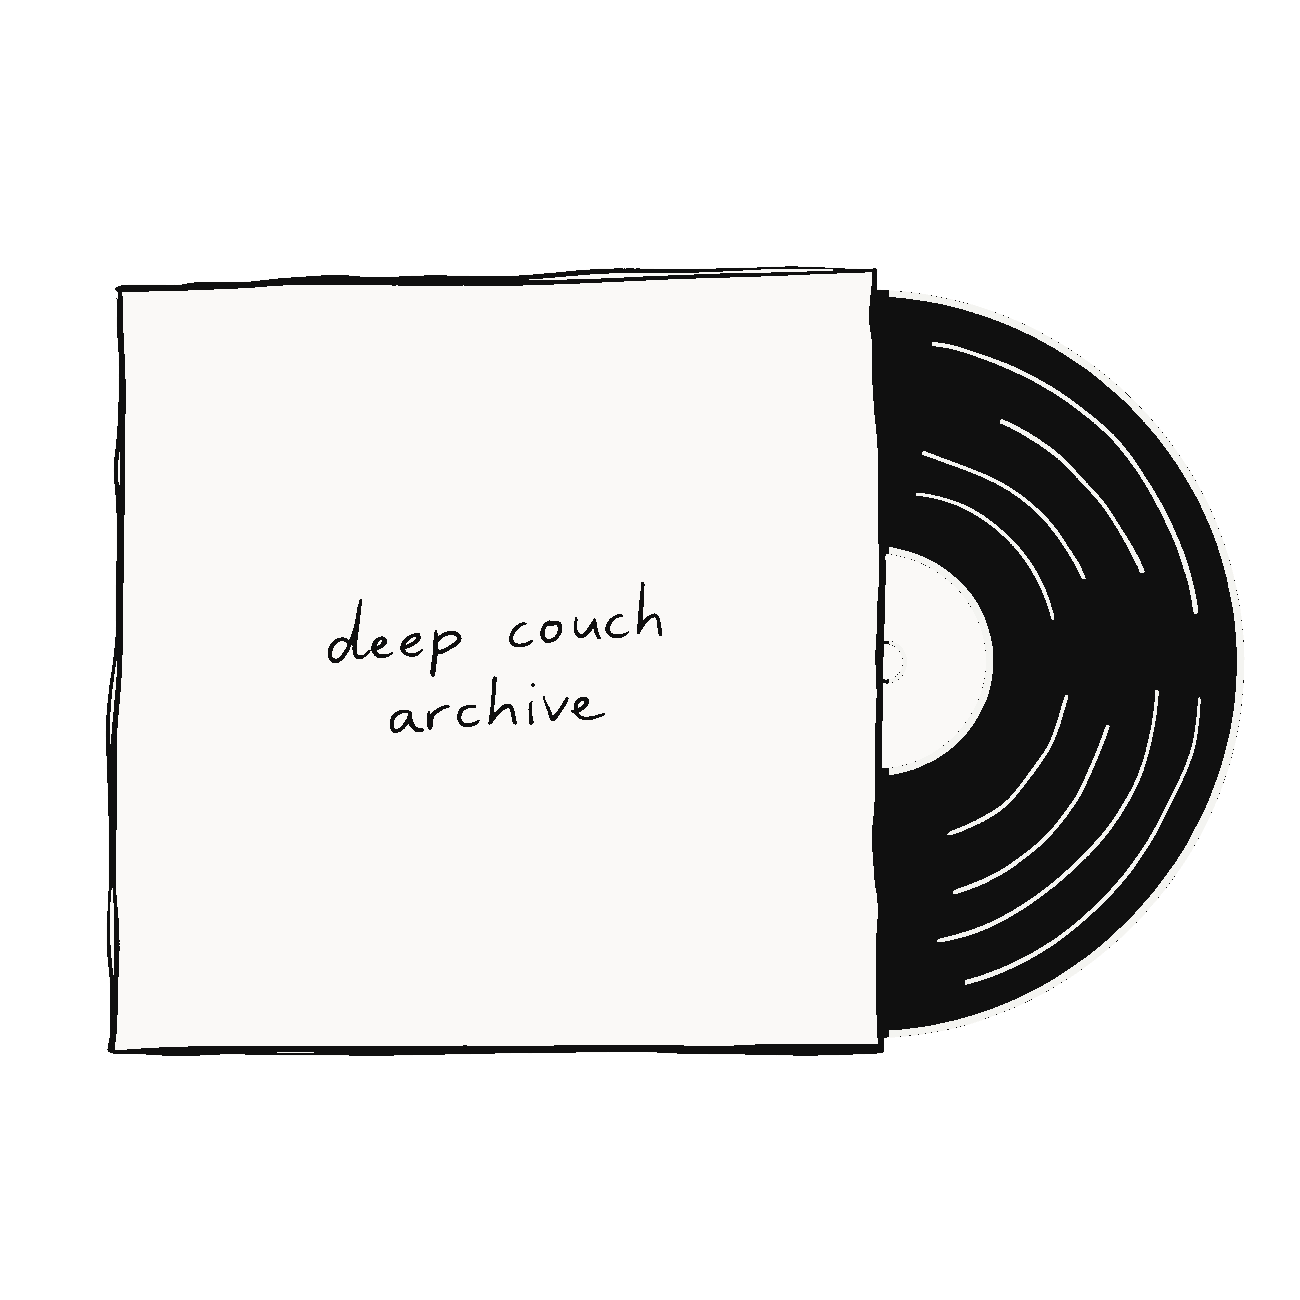
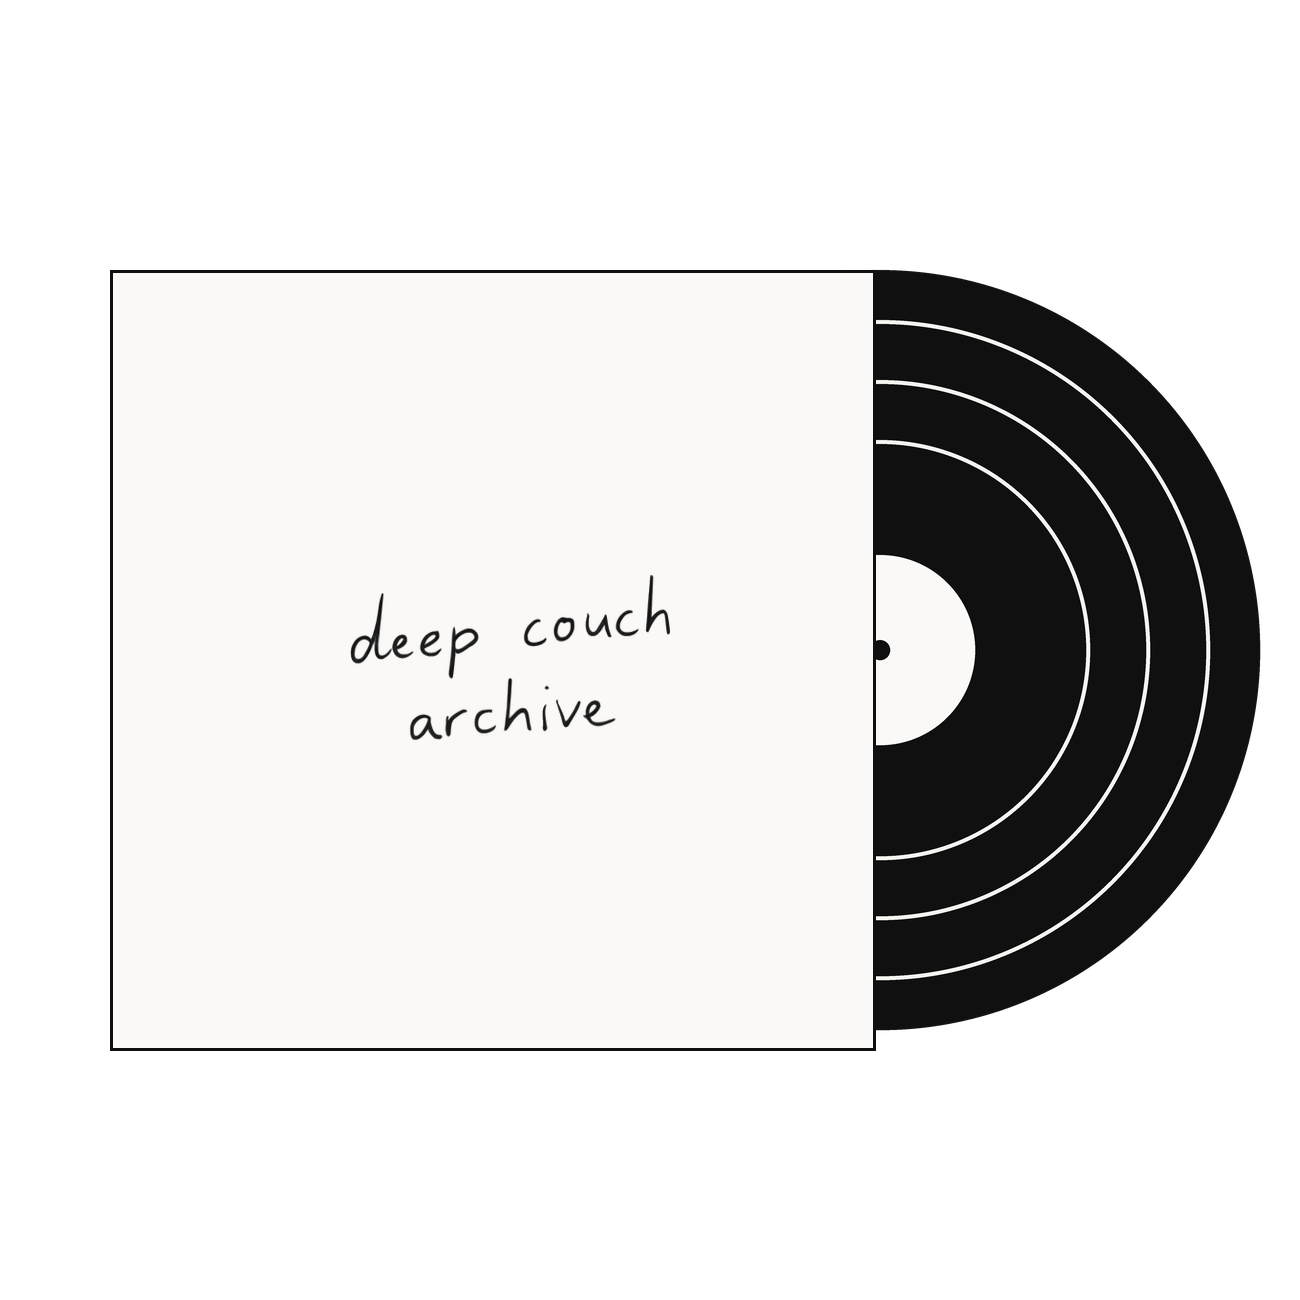
fix(home): rebuild LP illustration

diff --git a/api/home-navigation.test.js b/api/home-navigation.test.js
@@ -49,7 +49,7 @@ test("dark Home LP gives the cover outline a quieter secondary contrast", () => 
   const script = `
 from PIL import Image
 image = Image.open("assets/illustrations/vinyl-dca-home-dark.png").convert("RGBA")
-assert image.getpixel((500, 280)) == (182, 182, 174, 255), image.getpixel((500, 280))
+assert image.getpixel((500, 270)) == (182, 182, 174, 255), image.getpixel((500, 270))
 `;
 
   assert.doesNotThrow(() => {
@@ -62,8 +62,28 @@ test("light Home LP keeps warm-white grooves on the black record", () => {
 from PIL import Image
 image = Image.open("assets/illustrations/vinyl-dca-home-light.png").convert("RGBA")
 assert image.getpixel((960, 340)) == (16, 16, 16, 255), image.getpixel((960, 340))
-assert image.getpixel((1000, 420)) == (244, 244, 241, 255), image.getpixel((1000, 420))
-assert image.getpixel((920, 650)) == (250, 249, 247, 255), image.getpixel((920, 650))
+assert image.getpixel((1207, 650))[0] >= 244, image.getpixel((1207, 650))
+assert image.getpixel((940, 650)) == (250, 249, 247, 255), image.getpixel((940, 650))
+`;
+
+  assert.doesNotThrow(() => {
+    childProcess.execFileSync("python3", ["-c", script], { cwd: path.join(__dirname, "..") });
+  });
+});
+
+test("Home LP uses straight geometric cover edges", () => {
+  const script = `
+from PIL import Image
+
+light = Image.open("assets/illustrations/vinyl-dca-home-light.png").convert("RGBA")
+assert light.getpixel((110, 650)) == (16, 16, 16, 255), light.getpixel((110, 650))
+assert light.getpixel((500, 270)) == (16, 16, 16, 255), light.getpixel((500, 270))
+assert light.getpixel((875, 650)) == (16, 16, 16, 255), light.getpixel((875, 650))
+
+dark = Image.open("assets/illustrations/vinyl-dca-home-dark.png").convert("RGBA")
+assert dark.getpixel((110, 650)) == (182, 182, 174, 255), dark.getpixel((110, 650))
+assert dark.getpixel((500, 270)) == (182, 182, 174, 255), dark.getpixel((500, 270))
+assert dark.getpixel((875, 650)) == (182, 182, 174, 255), dark.getpixel((875, 650))
 `;
 
   assert.doesNotThrow(() => {
@@ -76,15 +96,16 @@ test("Home LP uses one clean cover-to-record seam in both themes", () => {
 from PIL import Image
 
 light = Image.open("assets/illustrations/vinyl-dca-home-light.png").convert("RGBA")
-assert light.getpixel((875, 500)) == (250, 249, 247, 255), light.getpixel((875, 500))
-assert light.getpixel((880, 500)) == (16, 16, 16, 255), light.getpixel((880, 500))
-assert light.getpixel((882, 500)) == (16, 16, 16, 255), light.getpixel((882, 500))
-assert light.getpixel((890, 500)) == (16, 16, 16, 255), light.getpixel((890, 500))
+assert light.getpixel((872, 500)) == (250, 249, 247, 255), light.getpixel((872, 500))
+assert light.getpixel((873, 500)) == (16, 16, 16, 255), light.getpixel((873, 500))
+assert light.getpixel((875, 500)) == (16, 16, 16, 255), light.getpixel((875, 500))
+assert light.getpixel((876, 500)) == (16, 16, 16, 255), light.getpixel((876, 500))
 
 dark = Image.open("assets/illustrations/vinyl-dca-home-dark.png").convert("RGBA")
-assert dark.getpixel((875, 500)) == (101, 101, 101, 255), dark.getpixel((875, 500))
-assert dark.getpixel((880, 500)) == (182, 182, 174, 255), dark.getpixel((880, 500))
-assert dark.getpixel((890, 500)) == (244, 244, 241, 255), dark.getpixel((890, 500))
+assert dark.getpixel((872, 500)) == (101, 101, 101, 255), dark.getpixel((872, 500))
+assert dark.getpixel((873, 500)) == (182, 182, 174, 255), dark.getpixel((873, 500))
+assert dark.getpixel((875, 500)) == (182, 182, 174, 255), dark.getpixel((875, 500))
+assert dark.getpixel((876, 500)) == (244, 244, 241, 255), dark.getpixel((876, 500))
 `;
 
   assert.doesNotThrow(() => {
@@ -97,8 +118,8 @@ test("dark Home LP keeps a gray sleeve, record label, and a dark spindle hole", 
 from PIL import Image
 image = Image.open("assets/illustrations/vinyl-dca-home-dark.png").convert("RGBA")
 assert image.getpixel((500, 500)) == (101, 101, 101, 255), image.getpixel((500, 500))
-assert image.getpixel((920, 650)) == (101, 101, 101, 255), image.getpixel((920, 650))
-assert image.getpixel((900, 650)) == (16, 16, 16, 255), image.getpixel((900, 650))
+assert image.getpixel((940, 650)) == (101, 101, 101, 255), image.getpixel((940, 650))
+assert image.getpixel((880, 650)) == (16, 16, 16, 255), image.getpixel((880, 650))
 assert image.getpixel((1040, 650)) == (244, 244, 241, 255), image.getpixel((1040, 650))
 `;
 